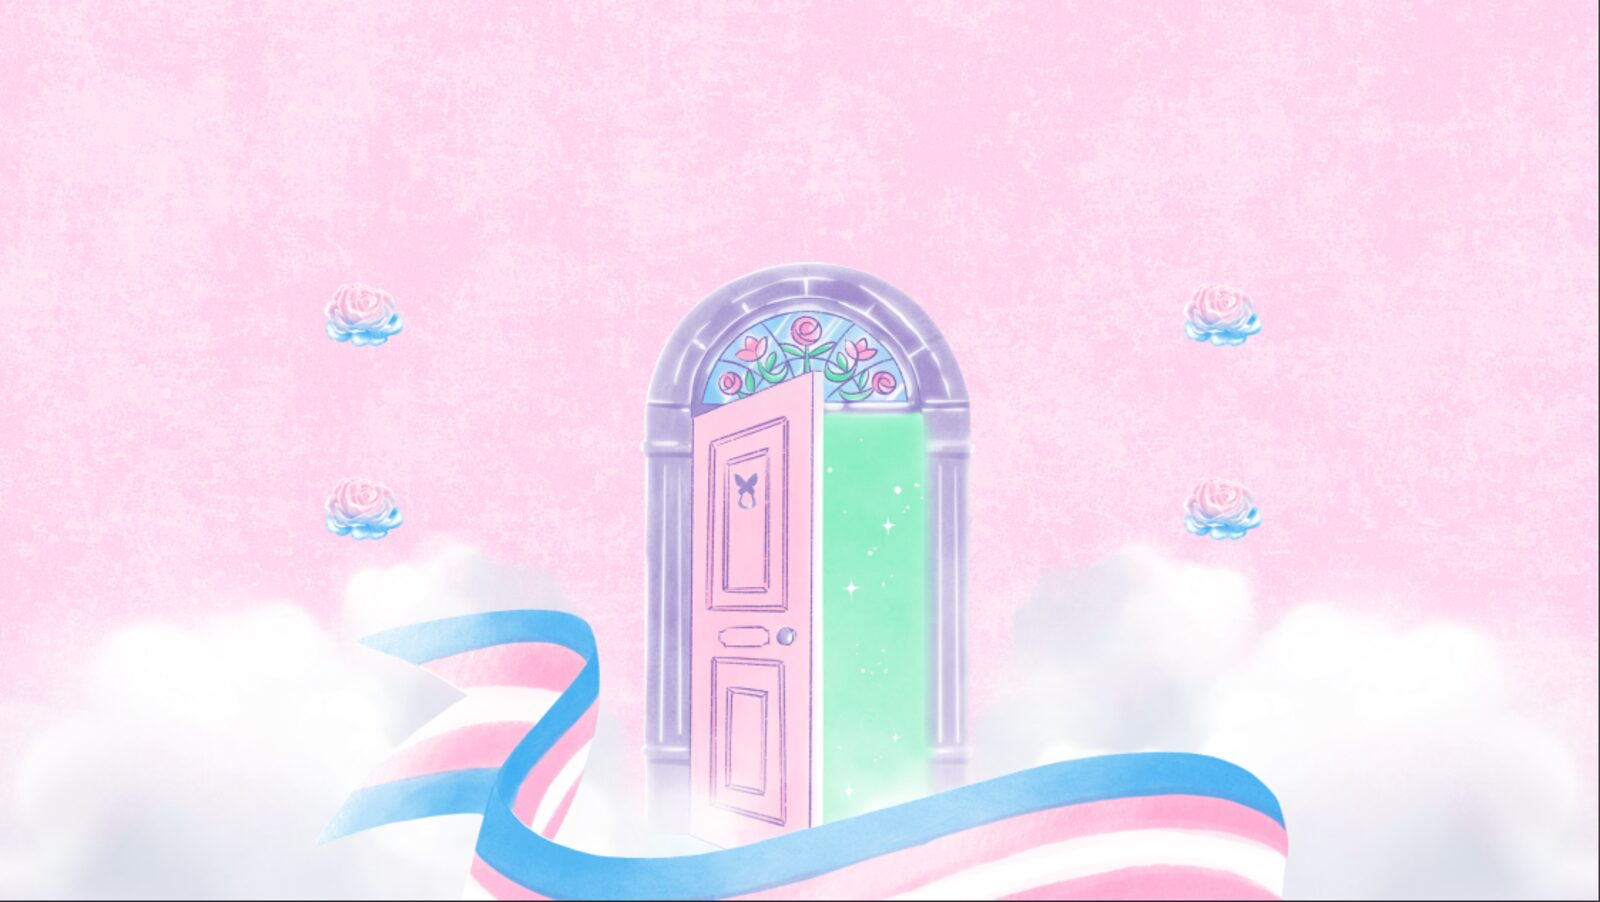
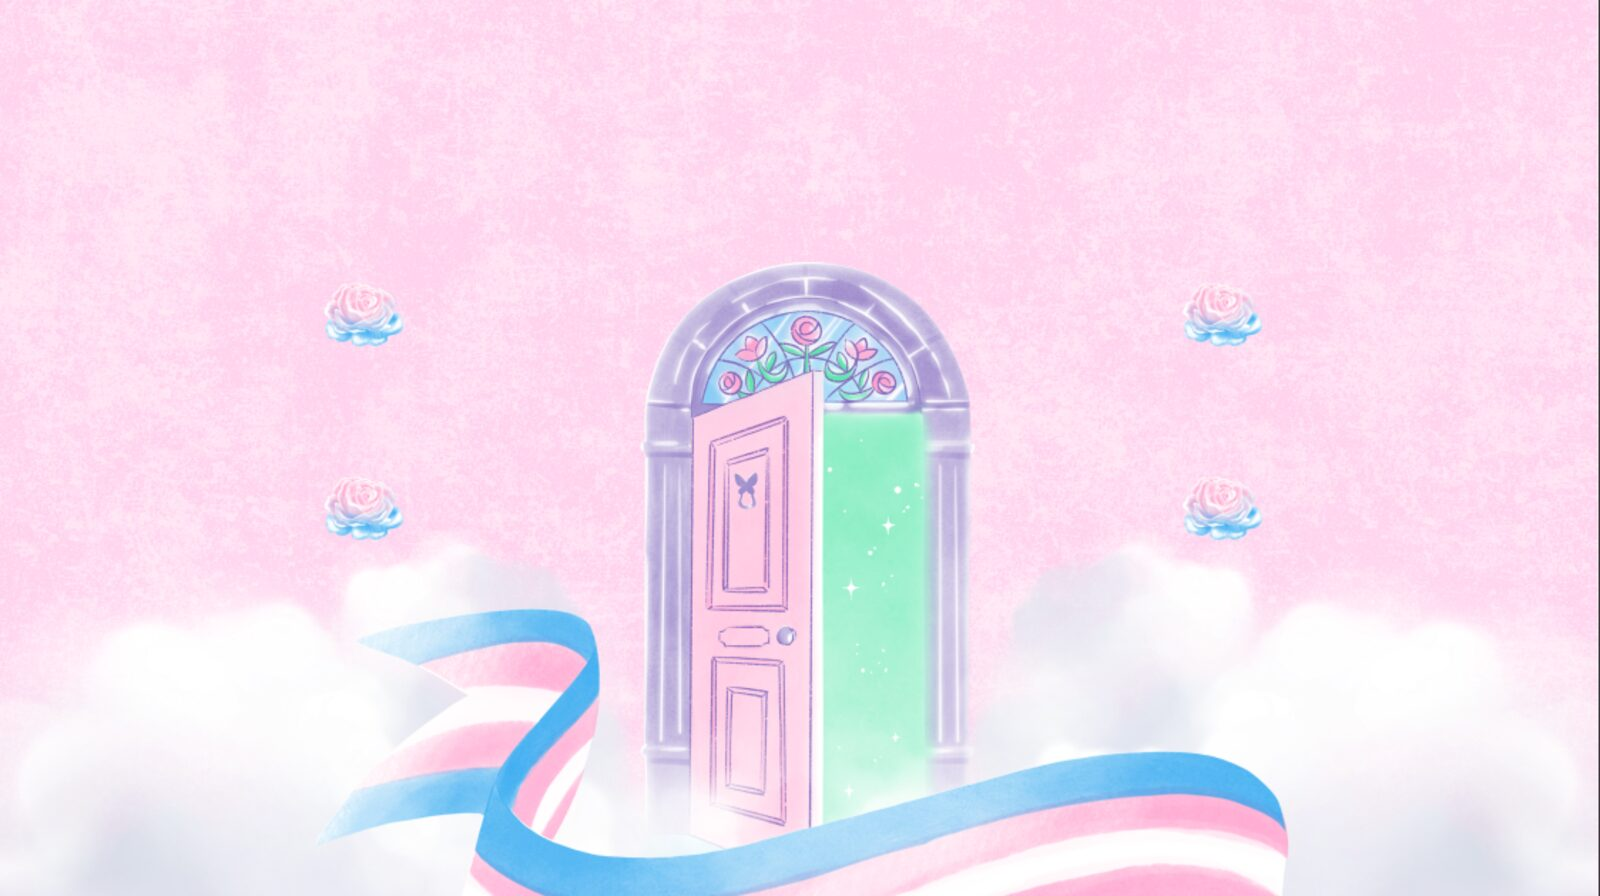
Remove linha escura no rodapé da home
Claude-Session: https://claude.ai/code/session_0194aE3CzDxR4mD2AJmRAwue

diff --git a/index.html b/index.html
@@ -665,6 +665,12 @@ a{color:inherit}
   .btn-reuniao::after{width:64px;height:64px;right:-22px;top:-22px;opacity:.3}
 }
 .calc p{font-weight:400}
+@media (max-width:860px){
+  #home::before{-webkit-mask-image:linear-gradient(transparent,#000 35%,#000 82%,transparent)!important;mask-image:linear-gradient(transparent,#000 35%,#000 82%,transparent)!important}
+}
+@media (min-width:861px){
+  #home::before{-webkit-mask-image:linear-gradient(90deg,transparent,#000 30%),linear-gradient(#000 88%,transparent);-webkit-mask-composite:source-in;mask-image:linear-gradient(90deg,transparent,#000 30%),linear-gradient(#000 88%,transparent);mask-composite:intersect}
+}
 @media (prefers-reduced-motion:reduce){*{transition:none!important;animation:none!important}}
 </style>
 </head>
